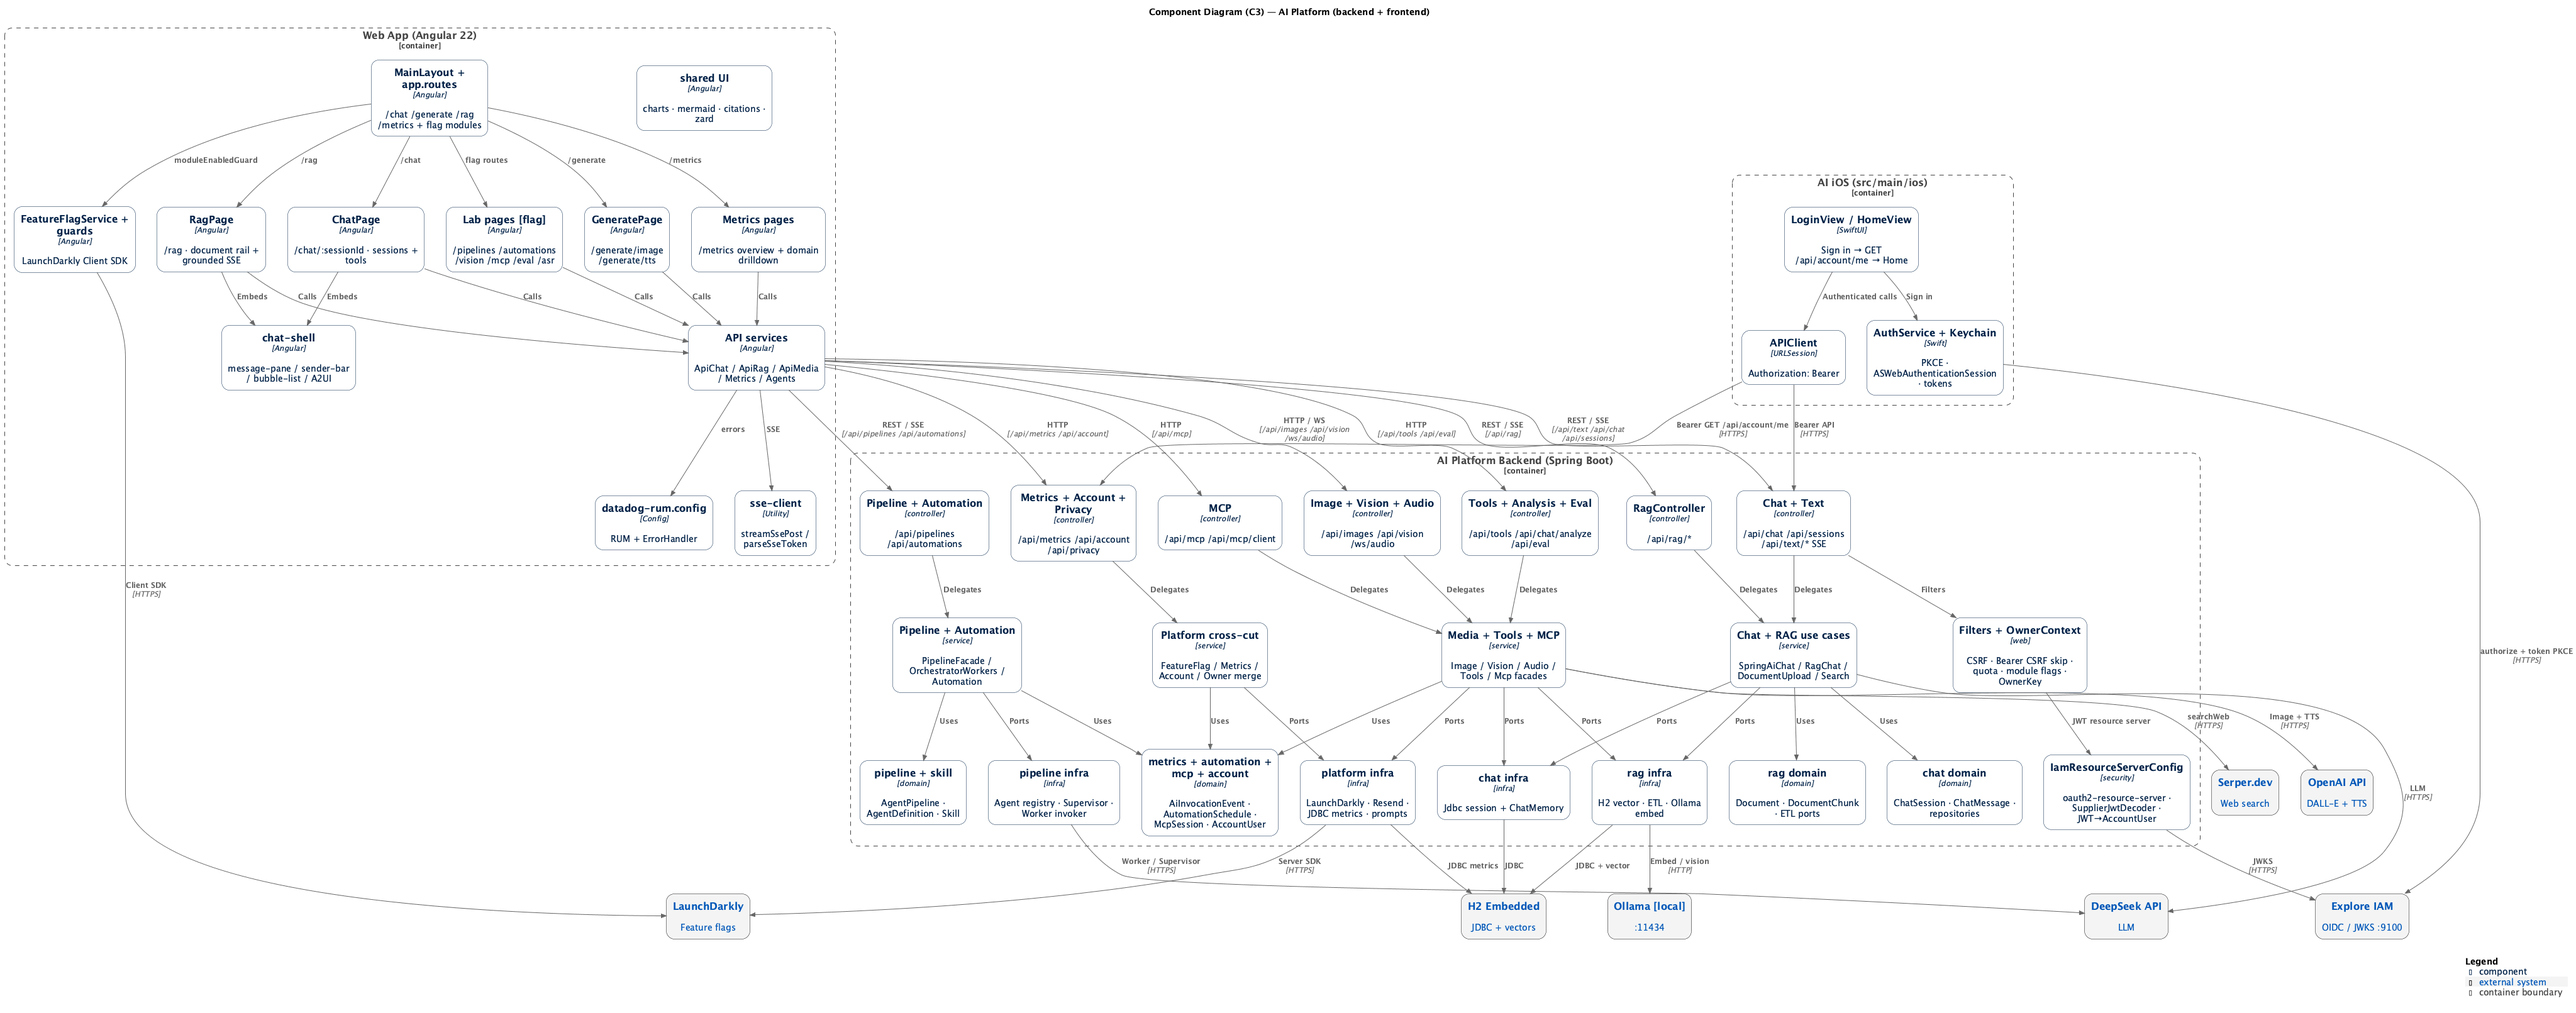
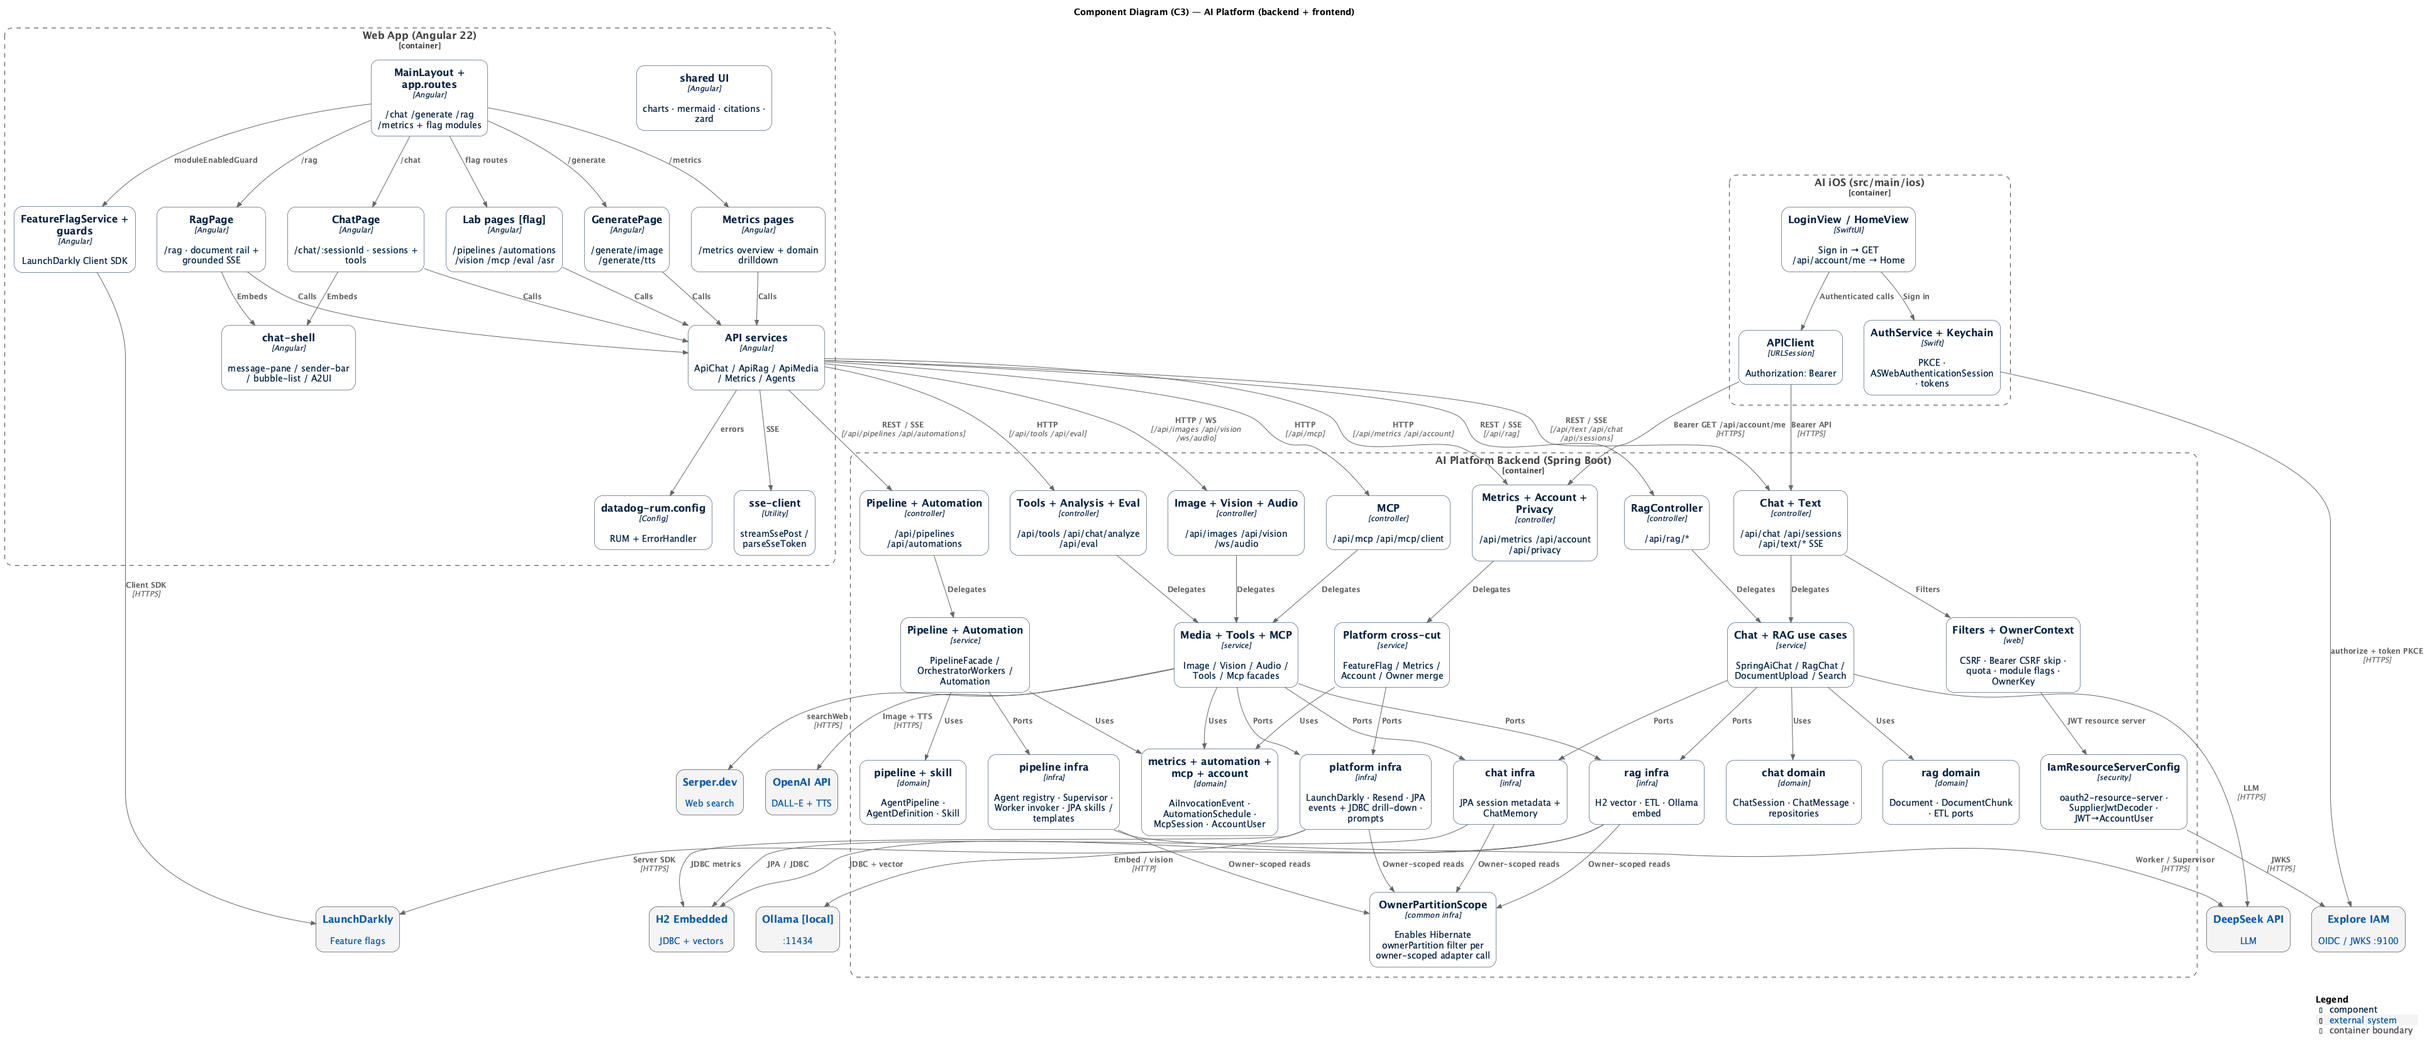
Sync C4 model with the persistence changes
The domain model diagram now shows the reworked kernel. The new
enableable named base sits under the described one, and the timed run
base extends AbstractImmutable. AbstractDescribedOwnerEntity is gone,
and ChatSession and AutomationSchedule have their new parents. It also
shows the @Immutable invocation event with its Owner Key, the
@NaturalId account user, the typed WorkflowTemplateId reference,
native UUID ids, and the ownerPartition filter.

C3 adds OwnerPartitionScope. C2 and the README name the JPA adapters
that replaced the JDBC ones and describe the persistence rules. The
PNGs were re-rendered with a larger size limit, since C2 and C3 had
been clipped at 4096 px. The Glossary kernel rows now match the code.

References:

- https://c4model.com/diagrams/code
- https://plantuml.com/faq

diff --git a/docs/developer/c4-model/README.md b/docs/developer/c4-model/README.md
@@ -98,7 +98,8 @@ Do not mix `C4_blue_new` into domain/dynamic diagrams（也不要把 `style-zinc
 - **架构**: Clean Architecture（`domain/repository/`，非 Hexagonal `domain/port/`）
 - **端口**: dev **9000** / prod **8080** (Render `PORT`)
 - **子域 (13)**: Chat / Pipeline / Skill / RAG / Tools / Analysis / Eval / Image / Image Analysis (`vision`) / Audio (TTS+ASR) / MCP Server / MCP Client / Metrics
-- **持久化**: H2 嵌入式（会话元数据 `JdbcChatSessionMetadataRepository` + 消息 `JdbcChatMemoryRepository` + 向量 + AI 调用事件 `ai_invocation_events`）
+- **持久化**: H2 嵌入式（会话元数据 `JpaChatSessionRepository` + 消息 `JdbcChatMemoryRepository` + 向量 + AI 调用事件 `ai_invocation_event`）
+- **JPA / Hibernate**: 归属聚合继承 `AbstractOwnerKeyedEntity`（`owner_key` NOT NULL，Liquibase `0.1-012` 回填遗留会话为 `c:legacy-orphan`）；按归属读取经 `OwnerPartitionScope` 启用 Hibernate `ownerPartition` 过滤器（`applyToLoadByKey`），后台任务不过滤；类型化 ID 映射原生 UUID 列；`AiInvocationEvent` 为 `@Immutable`；`AccountUser` 以 `@NaturalId`（provider + subject）查找
 - **功能开关**: LaunchDarkly（`ModuleAccessFilter` + `FeatureFlagService`）
 - **可观测性**: Datadog RUM（前端，可选）；APM javaagent 可选（Render Starter 512MB 默认关闭）
 - **外部服务 (cloud)**: DeepSeek API (LLM) / OpenAI API (DALL-E + TTS) / Serper.dev (Web 搜索) / Resend (Automations 邮件)
@@ -155,7 +156,7 @@ Worker 定义来自 Pipeline 内置目录：`AgentTemplateCatalog`（`classpath:
 | 概览 | `GET /api/metrics/overview` | `MetricsController`, `MetricsUseCase` |
 | 域快照 | `GET /api/metrics/domains/{domain}` | `JdbcMetricsQueryRepository` |
 | 时序 | `GET /api/metrics/series` | `SeriesSnapshot` |
-| 下钻 | `GET /api/metrics/drilldown` | `AiInvocationEvent`, `JdbcAiInvocationEventRepository` |
+| 下钻 | `GET /api/metrics/drilldown` | `AiInvocationEvent`, `JpaAiInvocationEventRepository`（JPA persist 写入，JDBC 下钻） |
 
 业务路径通过 `AiInvocationRecorder` 旁路写入 `ai_invocation_events`（Chat / RAG / Agents / Tools / Vision）。
 LLM 调用另由 Spring AI Micrometer Observation 导出 GenAI 语义指标（`/actuator/prometheus`）；业务域计数仍以 `AiInvocationRecorder` 为准。

diff --git a/docs/Glossary.md b/docs/Glossary.md
@@ -128,8 +128,8 @@ Shared persistence and aggregate bases. Feature modules inherit these types inst
 | Owner-Keyed Entity | 归属键实体基类 | Rows partitioned by `owner_key` | Mapped Superclass | `AbstractOwnerKeyedEntity<IdT>` | `belongsToClient`, `rebindOwnerKey` |
 | Owner Partition Filter | 归属分区过滤器 | Hibernate filter limiting queries and loads by id to one Owner Key | Persistence | `ownerPartition` (`OwnerPartition`), `OwnerPartitionScope` | Enabled per adapter call inside a transaction; background jobs stay unfiltered |
 | Named Owner Entity | 命名归属实体 | Owner-keyed row with validated `name` | Mapped Superclass | `AbstractNamedOwnerEntity<IdT>` | Max 120 chars via `DomainStrings` |
-| Enableable Entity | 可启用实体 | Named + described + `enabled` flag | Mapped Superclass | `AbstractEnableableDescribedOwnerEntity<IdT>` | `enable()` / `disable()` |
-| Timed Run Entity | 定时运行记录 | `started_at` / `finished_at` without `updated_at` | Mapped Superclass | `AbstractTimedRunEntity<IdT>` | Automation runs |
+| Enableable Entity | 可启用实体 | Named owner row with an `enabled` flag; the described variant adds `description` | Mapped Superclass | `AbstractEnableableNamedOwnerEntity<IdT>`, `AbstractEnableableDescribedOwnerEntity<IdT>` | `enable()` / `disable()`; schedules use the named variant |
+| Timed Run Entity | 定时运行记录 | `started_at` / `finished_at` without `updated_at` | Mapped Superclass | `AbstractTimedRunEntity<IdT>` | Extends Abstract Immutable (`createdAt` → `started_at`); automation runs |
 | Append-Only Event | 追加事件 | Immutable AI invocation / audit event | Mapped Superclass | `AbstractAppendOnlyEvent<IdT>` | Maps `createdAt` → `occurred_at` |
 | Client-Owned Repository | 归属仓储契约 | Owner-scoped CRUD port | Repository | `ClientOwnedRepository<E, IdT>` | `findByIdAndOwnerKey`, etc. |
 | Domain Strings | 域字符串校验 | Shared name/description normalization | Utility | `DomainStrings` | Replaces per-module copy-paste |
